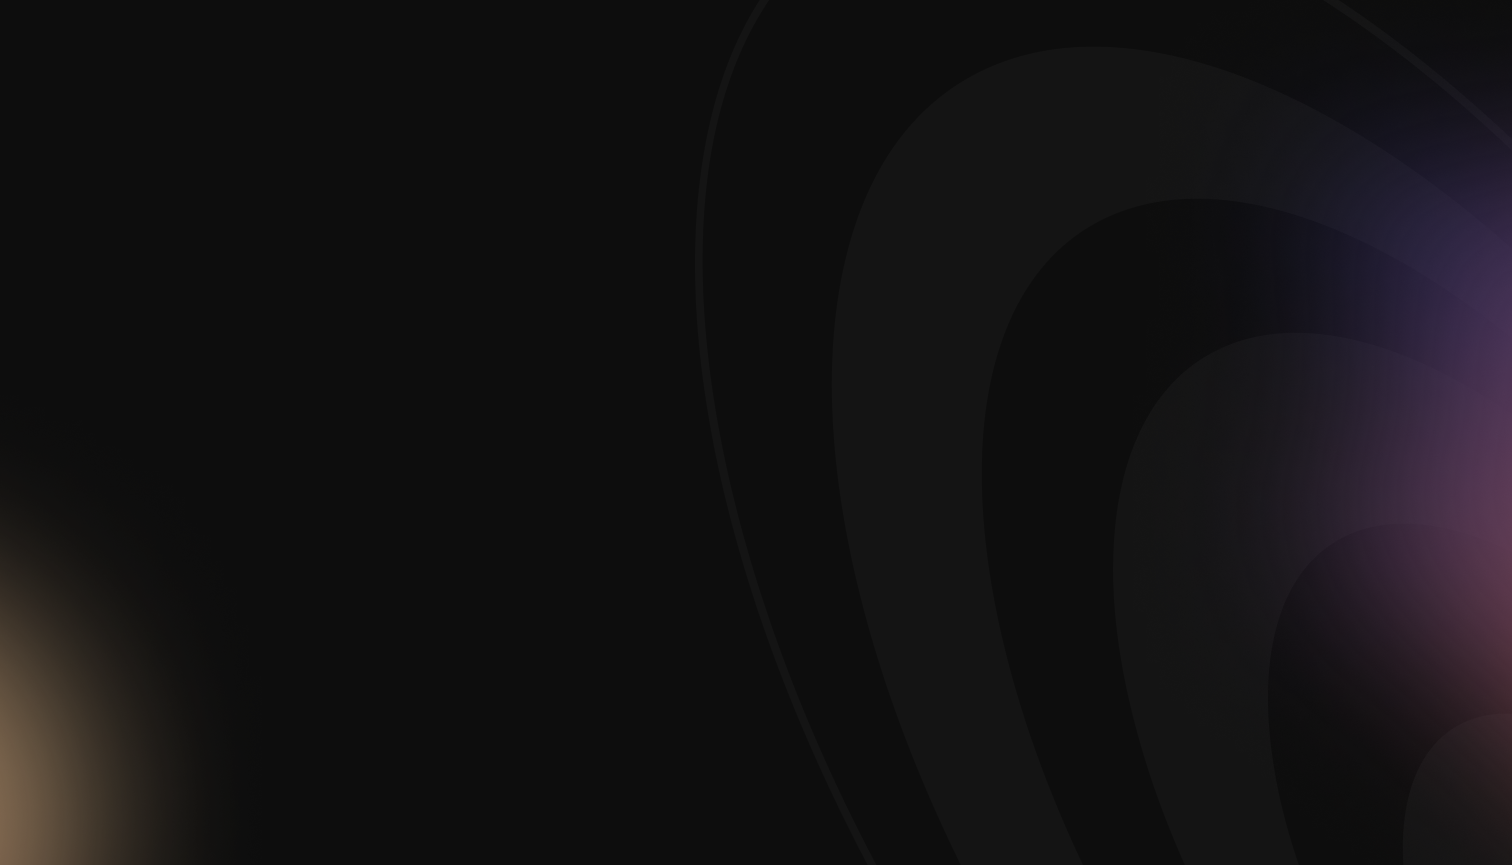
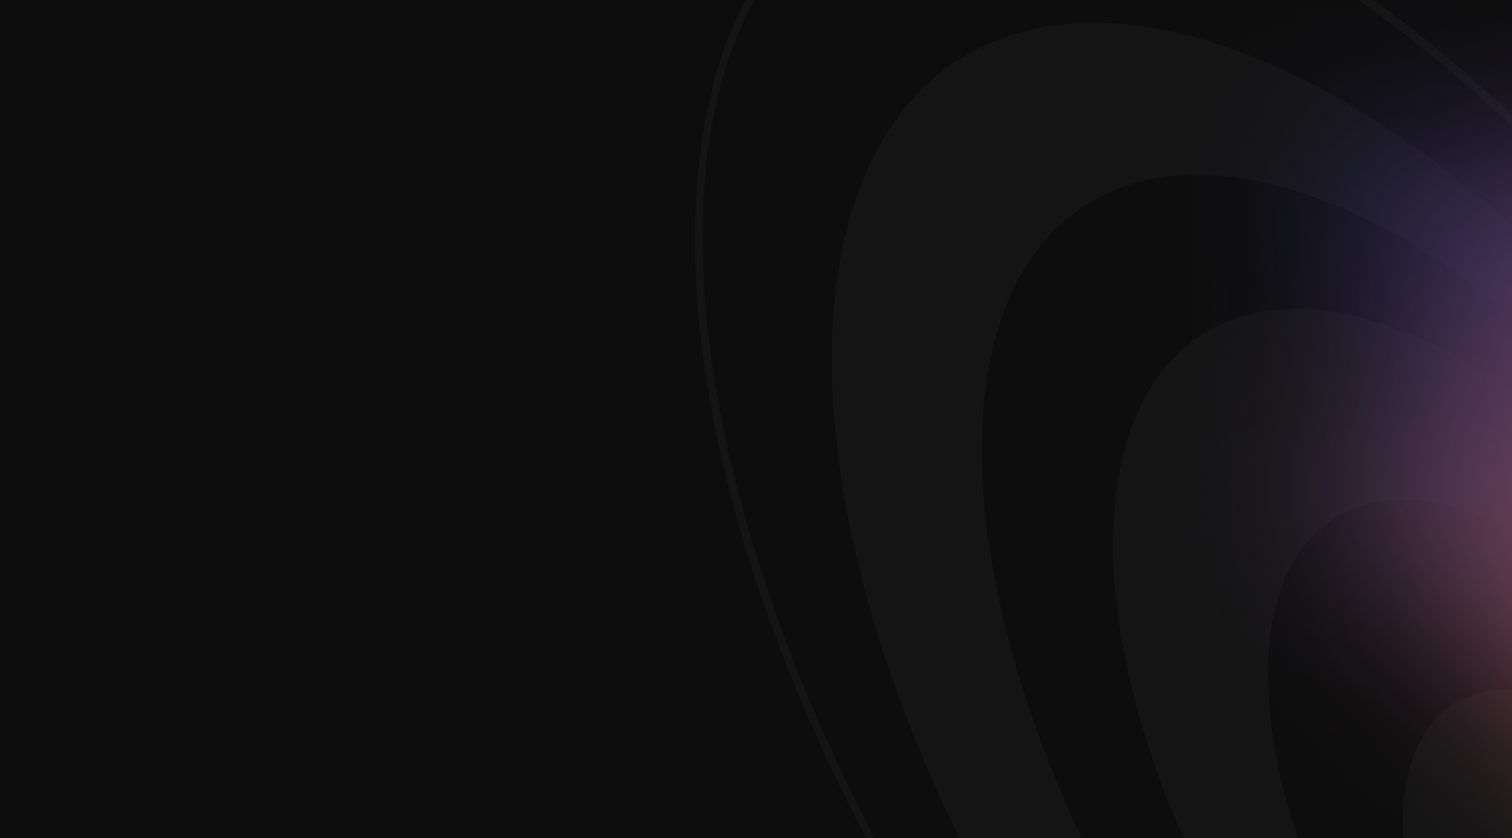
animate hero blur effect

Changed region(s): [[0.0, 0.6516, 0.1243, 1.0]]

diff --git a/src/templates/checkout/hero/hero.jsx b/src/templates/checkout/hero/hero.jsx
@@ -5,6 +5,7 @@ import { Container, Button, Ntext } from "components";
 import { heroSection } from "config/checkout";
 
 import Placeholder from "svgs/checkout/hero-placeholder.svg";
+import Blur from "svgs/checkout/hero-blur.svg";
 
 const { title, description } = heroSection;
 
@@ -41,6 +42,7 @@ const CheckoutPageHero = () => {
           <Placeholder className="hidden md:block" />
         </section>
       </Container>
+      <Blur className="absolute animate-slowBounce left-0 top-[400px] w-[16vw] h-[776px]" />
     </section>
   );
 };
@@ -48,9 +50,11 @@ const CheckoutPageHero = () => {
 const wrapperStyle = ctl(`
   bg-[length:100%_100%]
   bg-checkout-hero
+  overflow-clip
   bg-no-repeat
   pb-[200px]
   w-screen
+  relative
   pt-20
 `);
 

diff --git a/tailwind.config.js b/tailwind.config.js
@@ -167,6 +167,7 @@ module.exports = {
       animation: {
         wiggle: "wiggle 1s ease-in-out 2",
         heroFade: "heroFade 4s ease-in 1",
+        slowBounce: "bounce 4.0s infinite",
         pulseCustom: "pulseCustom 1s ease-in-out 2",
         squareToCircle: "squareToCircle .5s ease-in-out 1",
         fadeIn: "fadeIn 1.5s ease-in-out 1",
